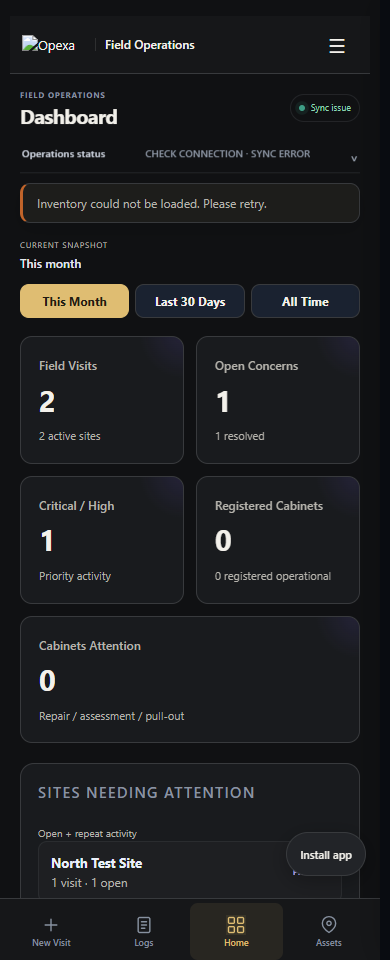
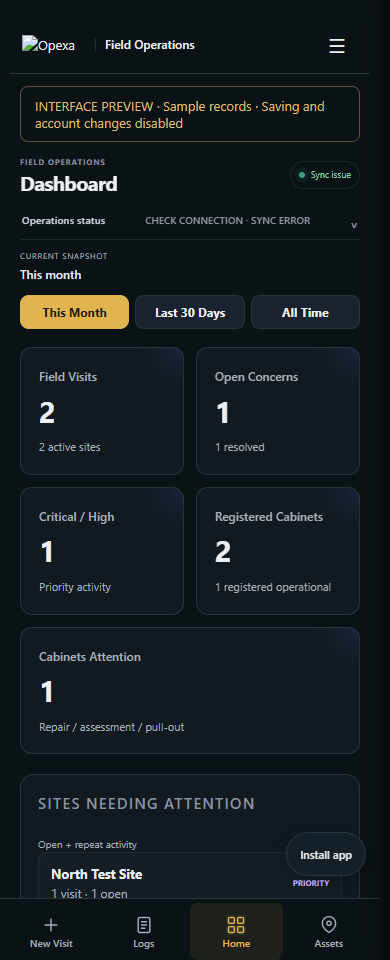
Apply OPEXA reference styling across operations and admin screens

diff --git a/ui-operations.css b/ui-operations.css
@@ -1,0 +1,70 @@
+/* Reference-led operations surfaces. No workflow or permission visibility rules. */
+@media screen {
+  :root {--paper:#0b1216;--card:#101a20;--input-bg:#151f27;--line:#29333b;--ink:#edf0f2;--ink-soft:#a7b2bd;--accent:#e0b54f;--accent-soft:#e0b54f16}
+  body .app-top,body .mobile-app-header,body .mobile-nav-drawer,body .mobile-bottom-nav {background:#0b1216!important}
+  body :is(#panel-report,#panel-inventory,#panel-audit,#panel-users) {--director-card:var(--card);--director-border:var(--line);--director-muted:var(--ink-soft);--asset-card:var(--card);--asset-border:var(--line);--asset-muted:var(--ink-soft)}
+  body :is(#panel-report,#panel-inventory,#panel-audit,#panel-users) :is(.section-head,.brief-header) {gap:16px;margin:20px 0!important}
+  body :is(#panel-inventory,#panel-audit,#panel-users) .section-head h2 {font:600 25px/1.25 'Segoe UI',sans-serif!important;color:var(--ink)!important;letter-spacing:-.025em!important;text-transform:none!important}
+  body :is(#panel-inventory,#panel-audit,#panel-users) .section-head p {font-size:13px!important;line-height:1.65!important;color:var(--ink-soft)!important;max-width:720px}
+  body :is(#panel-report,#panel-inventory,#panel-audit,#panel-users) :is(.chart-card,.inventory-card,.movement-card,.cabinet-card,.audit-kpi,.audit-mobile-card,.cabinet-mobile-card,.site-simple-row) {background:var(--card)!important;border:1px solid var(--line)!important;border-radius:8px!important;box-shadow:none!important}
+  body :is(#panel-report,#panel-inventory,#panel-audit,#panel-users) :is(input,select,textarea) {min-height:44px;background:var(--input-bg)!important;border-color:var(--line)!important;color:var(--ink)!important;border-radius:6px!important;font-size:14px!important}
+  body :is(#panel-report,#panel-inventory,#panel-audit,#panel-users) :is(.btn-secondary,.user-action) {min-height:40px;padding:9px 13px;background:var(--input-bg)!important;border:1px solid var(--line)!important;border-radius:6px!important;color:var(--ink)!important;font:500 12px/1.4 'Segoe UI',sans-serif!important}
+  body :is(#panel-report,#panel-inventory,#panel-audit,#panel-users) :is(.btn-primary,.submit),body #add-user-toggle {background:var(--accent)!important;border:1px solid var(--accent)!important;color:#201b0c!important;border-radius:6px!important;min-height:44px;font-weight:600!important}
+  body :is(#panel-report,#panel-inventory,#panel-audit,#panel-users) :is(.inventory-toolbar,.cabinet-toolbar,.movement-toolbar,.audit-controls,.period-select,.weekly-task-toolbar) {background:var(--card)!important;border:1px solid var(--line)!important;border-radius:8px!important;padding:12px!important;gap:12px!important;margin-bottom:18px!important}
+  body #asset-groups,body #panel-report .report-subnav {background:transparent!important;border:0!important;border-bottom:1px solid var(--line)!important;border-radius:0!important;padding:0 0 10px!important;gap:6px!important}
+  body #asset-groups button,body #panel-inventory .inventory-subtab,body #panel-report .report-subnav button {flex:0 0 auto;min-height:44px!important;padding:10px 16px!important;border:1px solid transparent!important;border-radius:6px!important;background:transparent!important;color:var(--ink-soft)!important;font-size:13px!important;box-shadow:none!important}
+  body #asset-groups button[aria-pressed=true],body #panel-inventory .inventory-subtab.active,body #panel-report .report-subnav button.active {background:var(--accent-soft)!important;border-color:#e0b54f33!important;color:var(--accent)!important}
+  body #panel-inventory .inventory-subnav {background:transparent!important;border-color:var(--line)!important;border-radius:0!important}
+  body :is(#panel-inventory,#panel-audit,#panel-users) :is(.table-scroll,.inventory-table-wrap,.cabinet-table-wrap,.movement-table-wrap) {border-color:var(--line)!important;border-radius:8px!important;scrollbar-color:#45525d var(--paper);overflow-x:auto;max-width:100%}
+  body :is(#panel-inventory,#panel-audit,#panel-users) table {width:100%;border-collapse:collapse;font:13px/1.6 'Segoe UI',sans-serif!important}
+  body :is(#panel-inventory,#panel-audit,#panel-users) table th {background:#19222c!important;color:var(--ink-soft)!important;padding:12px 16px!important;font:500 11px/1.5 'Segoe UI',sans-serif!important;text-transform:none!important;letter-spacing:.02em!important;border-bottom:1px solid var(--line)!important;white-space:nowrap}
+  body :is(#panel-inventory,#panel-audit,#panel-users) table td {background:transparent!important;padding:14px 16px!important;border-bottom:1px solid var(--line)!important;color:var(--ink)!important;font-size:13px!important;vertical-align:middle;overflow-wrap:anywhere}
+  body :is(#panel-inventory,#panel-audit,#panel-users) tbody tr {background:#0d1920}
+  body :is(#panel-inventory,#panel-audit,#panel-users) tbody tr:nth-child(even) {background:#101b22}
+  body :is(#panel-inventory,#panel-audit,#panel-users) tbody tr:hover {background:#19252b}
+  body #panel-users tbody td:first-child b,body #panel-inventory :is(.site-simple-name,.cabinet-id-link,.cabinet-name-btn) {color:var(--accent)!important}
+  body #panel-users .user-status {display:inline-flex;align-items:center;padding:3px 9px;border-radius:99px;font-size:11px;white-space:nowrap;border:1px solid transparent}
+  body #panel-users .user-status.active {background:#073c2b!important;border-color:#0e6548;color:#6cddb0!important}
+  body #panel-users .user-status.disabled {background:#392926!important;border-color:#694038;color:#efac9b!important}
+  body #panel-users .user-action {margin:3px 6px 3px 0;color:var(--accent)!important}
+  body #panel-users .banner {background:var(--card)!important;border-color:var(--line)!important;border-left-color:var(--accent)!important;color:var(--ink-soft)!important;font-size:12px;line-height:1.7}
+  body #panel-audit .audit-kpis {gap:12px;margin:0 0 20px}
+  body #panel-audit .audit-kpi {padding:18px!important}
+  body #panel-audit .audit-kpi b {font-size:28px;color:var(--ink);font-variant-numeric:tabular-nums}
+  body #panel-audit .audit-kpi span {color:var(--ink-soft);font-size:12px}
+  body #panel-audit :is(.audit-record small,.audit-user small,.audit-mobile-meta,.audit-mobile-record small) {color:var(--ink-soft)!important;font-size:12px;line-height:1.6}
+  body #panel-audit .audit-action {border-radius:5px;padding:4px 8px;font-size:11px;letter-spacing:.02em}
+  body #panel-report .brief-header {background:var(--card)!important;border:1px solid var(--line)!important;border-radius:8px!important;padding:24px!important}
+  body #panel-report .brief-header h1 {color:var(--ink)!important;-webkit-text-stroke:0!important;text-shadow:none!important;font-size:28px!important}
+  body #panel-report .brief-eyebrow {color:var(--accent)!important;-webkit-text-stroke:0!important;text-shadow:none!important}
+  body #panel-report .brief-takeaway {background:var(--accent-soft)!important;border:1px solid var(--line)!important;border-left:3px solid var(--accent)!important;border-radius:6px!important}
+  body #panel-report .brief-takeaway span {color:var(--accent)!important}
+  body #panel-report :is(.brief-metrics>div,.brief-grid>section,.brief-site-register,.report-agenda-section,.brief-agenda,.weekly-task-form,.weekly-task-item) {background:var(--card)!important;border-color:var(--line)!important;border-radius:8px!important}
+  body #panel-report .brief-track {background:var(--input-bg)!important}
+  body #panel-report .brief-track i {background:var(--accent)!important}
+  body #panel-report .period-type-btn {min-height:40px;display:inline-flex;align-items:center;padding:8px 13px!important;border-radius:6px!important}
+  body #panel-report .period-type-btn.active {background:var(--accent-soft)!important;border-color:#e0b54f50!important;color:var(--accent)!important}
+  body #panel-report :is(.brief-metrics span,.brief-caption,.brief-footnote,.brief-stamp) {color:var(--ink-soft)!important}
+  body #panel-report .visit-remarks-table th {background:#19222c!important;color:var(--ink-soft)!important;border-color:var(--line)!important}
+  body #panel-report .visit-remarks-table td {border-color:var(--line)!important}
+  body #panel-inventory table.asset-phone-cards>tbody>tr {background:var(--card)!important;border-color:var(--line)!important}
+  body #panel-inventory table.asset-phone-cards>tbody>tr>td[data-asset-label]::before {color:var(--ink-soft)!important}
+  @media(max-width:900px) {
+    body :is(#panel-report,#panel-inventory,#panel-audit,#panel-users) :is(.btn-secondary,.user-action) {min-height:44px}
+    body :is(#panel-report,#panel-inventory,#panel-audit,#panel-users) :is(input,select,textarea) {font-size:16px!important}
+    body #panel-audit .audit-controls {display:grid;grid-template-columns:repeat(2,minmax(0,1fr))}
+    body #panel-audit .audit-search {grid-column:1/-1;min-width:0}
+    body #panel-audit .audit-controls select {width:100%;min-width:0;max-width:none}
+    body #panel-users .section-head {flex-wrap:wrap}
+  }
+  @media(max-width:600px) {
+    body #panel-users .mini-table,body #panel-users .mini-table tbody {display:block;width:100%;min-width:0!important}
+    body #panel-users .mini-table thead {position:absolute;width:1px;height:1px;overflow:hidden;clip-path:inset(50%)}
+    body #panel-users .mini-table tbody tr {display:grid;grid-template-columns:repeat(2,minmax(0,1fr));border:1px solid var(--line);border-radius:8px;margin:0 0 12px;overflow:hidden;background:var(--card)}
+    body #panel-users .mini-table td {display:block;min-width:0;padding:12px!important;white-space:normal}
+    body #panel-users .mini-table td::before {content:attr(data-column);display:block;color:var(--ink-soft);font-size:11px;margin-bottom:5px}
+    body #panel-users .mini-table td:last-child,body #panel-users .mini-table td[colspan] {grid-column:1/-1}
+    body #panel-users .mini-table td[colspan]::before {display:none}
+    body #panel-report .brief-header {padding:18px!important;flex-wrap:wrap}
+  }
+}

diff --git a/preview-fixtures.js b/preview-fixtures.js
@@ -1,0 +1,43 @@
+/* Offline preview/test data only. Never loaded by the production index.html. */
+(() => {
+  const demoUsers=[
+    {username:'preview',name:'Preview Manager',role:'management',active:true},
+    {username:'alex.fse',name:'Alex Santos',role:'fse',fse:'Alex Santos',active:true},
+    {username:'mika.fse',name:'Mika Reyes',role:'fse',fse:'Mika Reyes',active:true},
+    {username:'previous.fse',name:'Previous Engineer',role:'fse',fse:'Previous Engineer',active:false}
+  ];
+  const date=todayStr();
+  const demoEntries=[
+    {id:'qa-1',date,site:'North Test Site',tech:'Alex Santos',category:'Hardware',issueType:'Power supply',priority:'High',status:'Pending',notes:'Power supply requires replacement.',resolution:'Isolated equipment for assessment.'},
+    {id:'qa-2',date,site:'South Test Site',tech:'Mika Reyes',category:'Network',issueType:'Connection',priority:'Low',status:'Resolved',notes:'Connection restored after cable replacement.',resolution:'Replaced the network cable and verified connectivity.'}
+  ];
+  const demoSites=[{id:'site-1',name:'North Test Site',status:'Active'},{id:'site-2',name:'South Test Site',status:'Active'}];
+  const demoCabinets=[
+    {id:'cab-1',cabinetId:'OPX-001',cabinetNo:'OPX-001',site:'North Test Site',status:'For Repair',brand:'OPEXA',model:'Standard',serialNo:'DEMO-001',deploymentStatus:'Deployed'},
+    {id:'cab-2',cabinetId:'OPX-002',cabinetNo:'OPX-002',site:'South Test Site',status:'Operational',brand:'OPEXA',model:'Standard',serialNo:'DEMO-002',deploymentStatus:'Deployed'}
+  ];
+  const demoAudit=[
+    {id:'audit-1',timestamp:date+'T09:30:00+08:00',actorUsername:'alex.fse',actorName:'Alex Santos',actorRole:'fse',action:'CREATE',entityType:'Field Log',entityId:'qa-1',label:'North Test Site',details:'Recorded a hardware concern and requested a replacement power supply.'},
+    {id:'audit-2',timestamp:date+'T10:15:00+08:00',actorUsername:'mika.fse',actorName:'Mika Reyes',actorRole:'fse',action:'UPDATE',entityType:'Field Log',entityId:'qa-2',label:'South Test Site',details:'Updated visit status to Resolved after connectivity checks.'},
+    {id:'audit-3',timestamp:date+'T11:00:00+08:00',actorUsername:'preview',actorName:'Preview Manager',actorRole:'management',action:'DISABLE',entityType:'Account',entityId:'previous.fse',label:'Previous Engineer',details:'Disabled access for a former team member.'}
+  ];
+  // Guard the preview before making any renderer visible. No writes or real login.
+  window.fetch=()=>Promise.reject(new Error('Offline interface preview: network requests disabled.'));
+  apiPost=async action=>{
+    if(action==='listUsers')return structuredClone(demoUsers);
+    throw new Error('Preview only. Saving and account changes are disabled.');
+  };
+  apiGet=async type=>structuredClone(({entries:demoEntries,sites:demoSites.map(s=>s.name),fses:['Alex Santos','Mika Reyes'],cabinets:demoCabinets,siteRegistry:demoSites,siteRecords:demoSites,auditTrail:demoAudit})[type]||[]);
+  currentUser={username:'preview',name:'Preview Manager',role:'management'};authToken='';
+  entries=structuredClone(demoEntries);fses=['Alex Santos','Mika Reyes'];sites=demoSites.map(s=>s.name);
+  cabinetRows=structuredClone(demoCabinets);window.__lifecycleSites=structuredClone(demoSites);
+  auditRowsCache=structuredClone(demoAudit);auditLoadedOnce=true;
+  document.getElementById('login-screen').style.display='none';
+  document.getElementById('app-shell').style.display='block';
+  document.getElementById('logged-user').textContent='Preview Manager';
+  managementPeriod='all';applyRoleUI();renderFseOptions();renderSiteOptions();render();renderManagementOverview();
+  document.querySelector('.tab[data-tab="dashboard"]').click();
+  const notice=document.createElement('div');notice.textContent='INTERFACE PREVIEW · Sample records · Saving and account changes disabled';
+  notice.style.cssText='padding:10px 14px;border:1px solid #dfbd7260;border-radius:8px;color:#dfbd72;margin-bottom:14px;font:13px Segoe UI,sans-serif';
+  document.querySelector('.app-content').prepend(notice);
+})();

diff --git a/ui-modernization.js b/ui-modernization.js
@@ -1,5 +1,23 @@
 /* Presentation and accessibility only: reuse existing data and event handlers. */
 (() => {
+  // Keep the existing accounts table and action listeners on compact screens.
+  const usersBody = document.getElementById('users-body');
+  if (usersBody) {
+    const columns = [...usersBody.closest('table').querySelectorAll('thead th')].map(th => th.textContent.trim());
+    const labelCells = () => [...usersBody.rows].forEach(row => [...row.cells].forEach((cell,index) => {
+      if (cell.colSpan === 1) cell.dataset.column = columns[index] || '';
+    }));
+    new MutationObserver(labelCells).observe(usersBody, {childList:true});
+    labelCells();
+  }
+  const filterLabels = {'audit-search':'Search audit history','audit-action-filter':'Filter by action','audit-entity-filter':'Filter by record type','sites-search':'Search sites','sites-status-filter':'Filter sites by status','period-picker':'Reporting period'};
+  Object.entries(filterLabels).forEach(([id,label]) => document.getElementById(id)?.setAttribute('aria-label',label));
+  document.querySelectorAll('.period-type-btn').forEach(control => {
+    control.setAttribute('role','button');control.tabIndex=0;
+    control.addEventListener('keydown',event=>{if(event.key==='Enter'||event.key===' '){event.preventDefault();control.click();}});
+    const sync=()=>control.setAttribute('aria-pressed',String(control.classList.contains('active')));
+    new MutationObserver(sync).observe(control,{attributes:true,attributeFilter:['class']});sync();
+  });
   const dashboard = document.getElementById('panel-dashboard');
   const snapshot = document.getElementById('mgmt-snapshot');
   if (dashboard && snapshot) {

diff --git a/sw.js b/sw.js
@@ -1,8 +1,8 @@
 'use strict';
 const CACHE_PREFIX='opexa-io-shell-';
-const CACHE=CACHE_PREFIX+'20261027-interface-v1';
+const CACHE=CACHE_PREFIX+'20261027-interface-v2';
 const ROOT=new URL('./',self.location.href);
-const SHELL=['./','./index.html','./service-form.js','./log-filters.js','./ui-modernization.css','./ui-modernization.js','./service-form-reference.png','./manifest.webmanifest','./install.js','./install.css','./icons/icon-192.png','./icons/icon-512.png','./icons/icon-maskable-512.png','./icons/apple-touch-icon.png'];
+const SHELL=['./','./index.html','./service-form.js','./log-filters.js','./ui-modernization.css','./ui-operations.css','./ui-modernization.js','./service-form-reference.png','./manifest.webmanifest','./install.js','./install.css','./icons/icon-192.png','./icons/icon-512.png','./icons/icon-maskable-512.png','./icons/apple-touch-icon.png'];
 self.addEventListener('install',event=>{event.waitUntil(caches.open(CACHE).then(cache=>cache.addAll(SHELL.map(file=>new Request(new URL(file,ROOT),{cache:'reload'})))));});
 self.addEventListener('activate',event=>{event.waitUntil((async()=>{for(const name of await caches.keys())if(name.startsWith(CACHE_PREFIX)&&name!==CACHE)await caches.delete(name);await self.clients.claim();})());});
 self.addEventListener('message',event=>{if(event.data?.type==='SKIP_WAITING')self.skipWaiting();});

diff --git a/ui-modernization.css b/ui-modernization.css
@@ -68,7 +68,9 @@
   @media(max-width:1100px) {body #panel-dashboard .mgmt-snapshot {grid-template-columns:repeat(3,minmax(0,1fr))!important}}
   @media(max-width:900px) {
     .opexa-attention-grid {grid-template-columns:minmax(0,1fr);gap:12px}
-    .mobile-bottom-nav {display:grid!important}
+    .mobile-bottom-nav {position:fixed;z-index:106;left:0;right:0;bottom:0;display:grid!important;grid-template-columns:repeat(4,minmax(0,1fr));height:calc(62px + env(safe-area-inset-bottom));padding:4px 5px env(safe-area-inset-bottom);border-top:1px solid var(--line)}
+    .mobile-bottom-nav button {display:flex;min-width:0;min-height:48px;flex-direction:column;align-items:center;justify-content:center;gap:3px;border:0;border-radius:8px;background:transparent;color:var(--ink-soft);font:500 10px/1.1 'Segoe UI',sans-serif}
+    .mobile-bottom-nav button svg {width:20px;height:20px;flex:0 0 20px}
     .wrap {padding-bottom:calc(90px + env(safe-area-inset-bottom))!important}
     #panel-log .ticket.smart-visit-form {padding:16px!important}
     #panel-log .visit-step-controls button {min-height:44px}

diff --git a/index.html b/index.html
@@ -12147,4 +12147,5 @@ body #panel-report .brief-header .brief-eyebrow{color:#b5c5e5!important;font-wei
 
 <style id="personal-fse-report-scope">body.personal-fse-reports #panel-report .report-subnav,body.personal-fse-reports #panel-report .report-weekly-task-view,body.personal-fse-reports #panel-report .report-agenda-section,body.personal-fse-reports #panel-report .brief-agenda{display:none!important}</style>
 <link rel="stylesheet" href="ui-modernization.css">
+<link rel="stylesheet" href="ui-operations.css">
 <script src="ui-modernization.js"></script>

diff --git a/docs/UI-AUDIT.md b/docs/UI-AUDIT.md
@@ -15,7 +15,9 @@ Audited the actual `fieldopexa/io` application at commit `cda82ef`, including th
 | Save feedback | Mobile Save did not mirror disabled submit; brief toast duration | Mobile Save mirrors actual busy/disabled state and restores its label; error announcements remain visible for ten seconds |
 | Offline updates | Cache did not include new modules | Versioned shell caches both UI modules using the existing unfinished-work update protection |
 
-The new CSS and JS are isolated in `ui-modernization.css` and `ui-modernization.js`. The legacy application has many cascading presentation layers; this pass deliberately avoids a broad rewrite of them. Visibility and permission rules stay in the application. Print rules are excluded from the new CSS.
+The new CSS and JS are isolated in `ui-modernization.css`, `ui-operations.css` and `ui-modernization.js`. The operations layer follows the supplied OPEXA administration reference: near-black/navy surfaces, restrained gold accents, compact toolbars, subtle table dividers and status badges. Reports, Asset Operations, Audit Trail and Users share those treatments. Accounts become labeled cards on phones while retaining their original action buttons. Report-period chips support keyboard activation and expose their selected state. The tablet bottom navigation is explicitly sized throughout its full 900px breakpoint.
+
+The legacy application has many cascading presentation layers; this pass deliberately avoids a broad rewrite of them. Visibility and permission rules stay in the application. Print rules are excluded from the new CSS.
 
 ## Validation
 
@@ -35,7 +37,7 @@ Run the browser regression with an installed Playwright package and Microsoft Ed
 node ui-browser.test.cjs
 ```
 
-The browser harness uses the actual app and renderers with synthetic records, blocks external requests and disables service workers. It checks desktop/mobile layouts at 390, 820 and 1440px; additional checks cover 320, 760, 900 and 901px. It verifies all KPIs, filtering/reset, client validation/focus, optional step five, busy-state recovery, drawer focus/Escape, form visibility across resize, and management/FSE UI restrictions. These UI checks supplement the existing backend permission tests; hiding controls is not a security boundary.
+The browser harness uses the actual app and renderers with synthetic records, blocks external requests and disables service workers. It checks all seven sections at 390, 820 and 1440px; additional checks cover 320, 760, 900 and 901px. It verifies all KPIs, filtering/reset, client validation/focus, optional step five, busy-state recovery, drawer focus/Escape, form visibility across resize, compact tablet navigation, user-table labeling/add-form disclosure, audit search, Report/Agenda switching, and management/FSE UI restrictions. These UI checks supplement the existing backend permission tests; hiding controls is not a security boundary.
 
 No production records were written. Authenticated end-to-end Sheets saves, Drive uploads and real signature persistence require a staging account/backend and remain a release smoke test. Existing backend and service-form regression tests exercise their mocked round trips. External logos are unavailable in these offline screenshots; sync warnings are expected.
 
@@ -49,8 +51,20 @@ No production records were written. Authenticated end-to-end Sheets saves, Drive
 | Field Logs, phone | [Before](ui-screens/before-fieldlogs-390.png) | [After](ui-screens/after-fieldlogs-390.png) |
 | New Visit, desktop | [Before](ui-screens/before-log-1440.png) | [After](ui-screens/after-log-1440.png) |
 | New Visit, phone | [Before](ui-screens/before-log-390.png) | [After](ui-screens/after-log-390.png) |
+| Reports, desktop | [Before](ui-screens/before-report-1440.png) | [After](ui-screens/after-report-1440.png) |
+| Reports, phone | [Before](ui-screens/before-report-390.png) | [After](ui-screens/after-report-390.png) |
+| Asset Operations, desktop | [Before](ui-screens/before-inventory-1440.png) | [After](ui-screens/after-inventory-1440.png) |
+| Asset Operations, phone | [Before](ui-screens/before-inventory-390.png) | [After](ui-screens/after-inventory-390.png) |
+| Audit Trail, desktop | [Before](ui-screens/before-audit-1440.png) | [After](ui-screens/after-audit-1440.png) |
+| Audit Trail, phone | [Before](ui-screens/before-audit-390.png) | [After](ui-screens/after-audit-390.png) |
+| Users, desktop | [Before](ui-screens/before-users-1440.png) | [After](ui-screens/after-users-1440.png) |
+| Users, phone | [Before](ui-screens/before-users-390.png) | [After](ui-screens/after-users-390.png) |
 
 Screens at 820px are also in `ui-screens/`. Phone/tablet captures show a viewport; desktop captures show the full page. `ui-screens/results.json` records browser runtime errors for each before/after run.
+
+## Standalone HTML preview
+
+`node build-preview.cjs OUTPUT.html` creates a single HTML preview with the local styles/scripts and service-form reference embedded. `preview-fixtures.js` supplies synthetic visit, asset, audit and account records only to this preview and the browser test; production `index.html` never loads it. Network requests and backend writes are blocked in the preview. The preview starts on Dashboard and supports navigating all sections without a login. This file is for interface review, not deployment.
 
 ## Release / rollback
 
